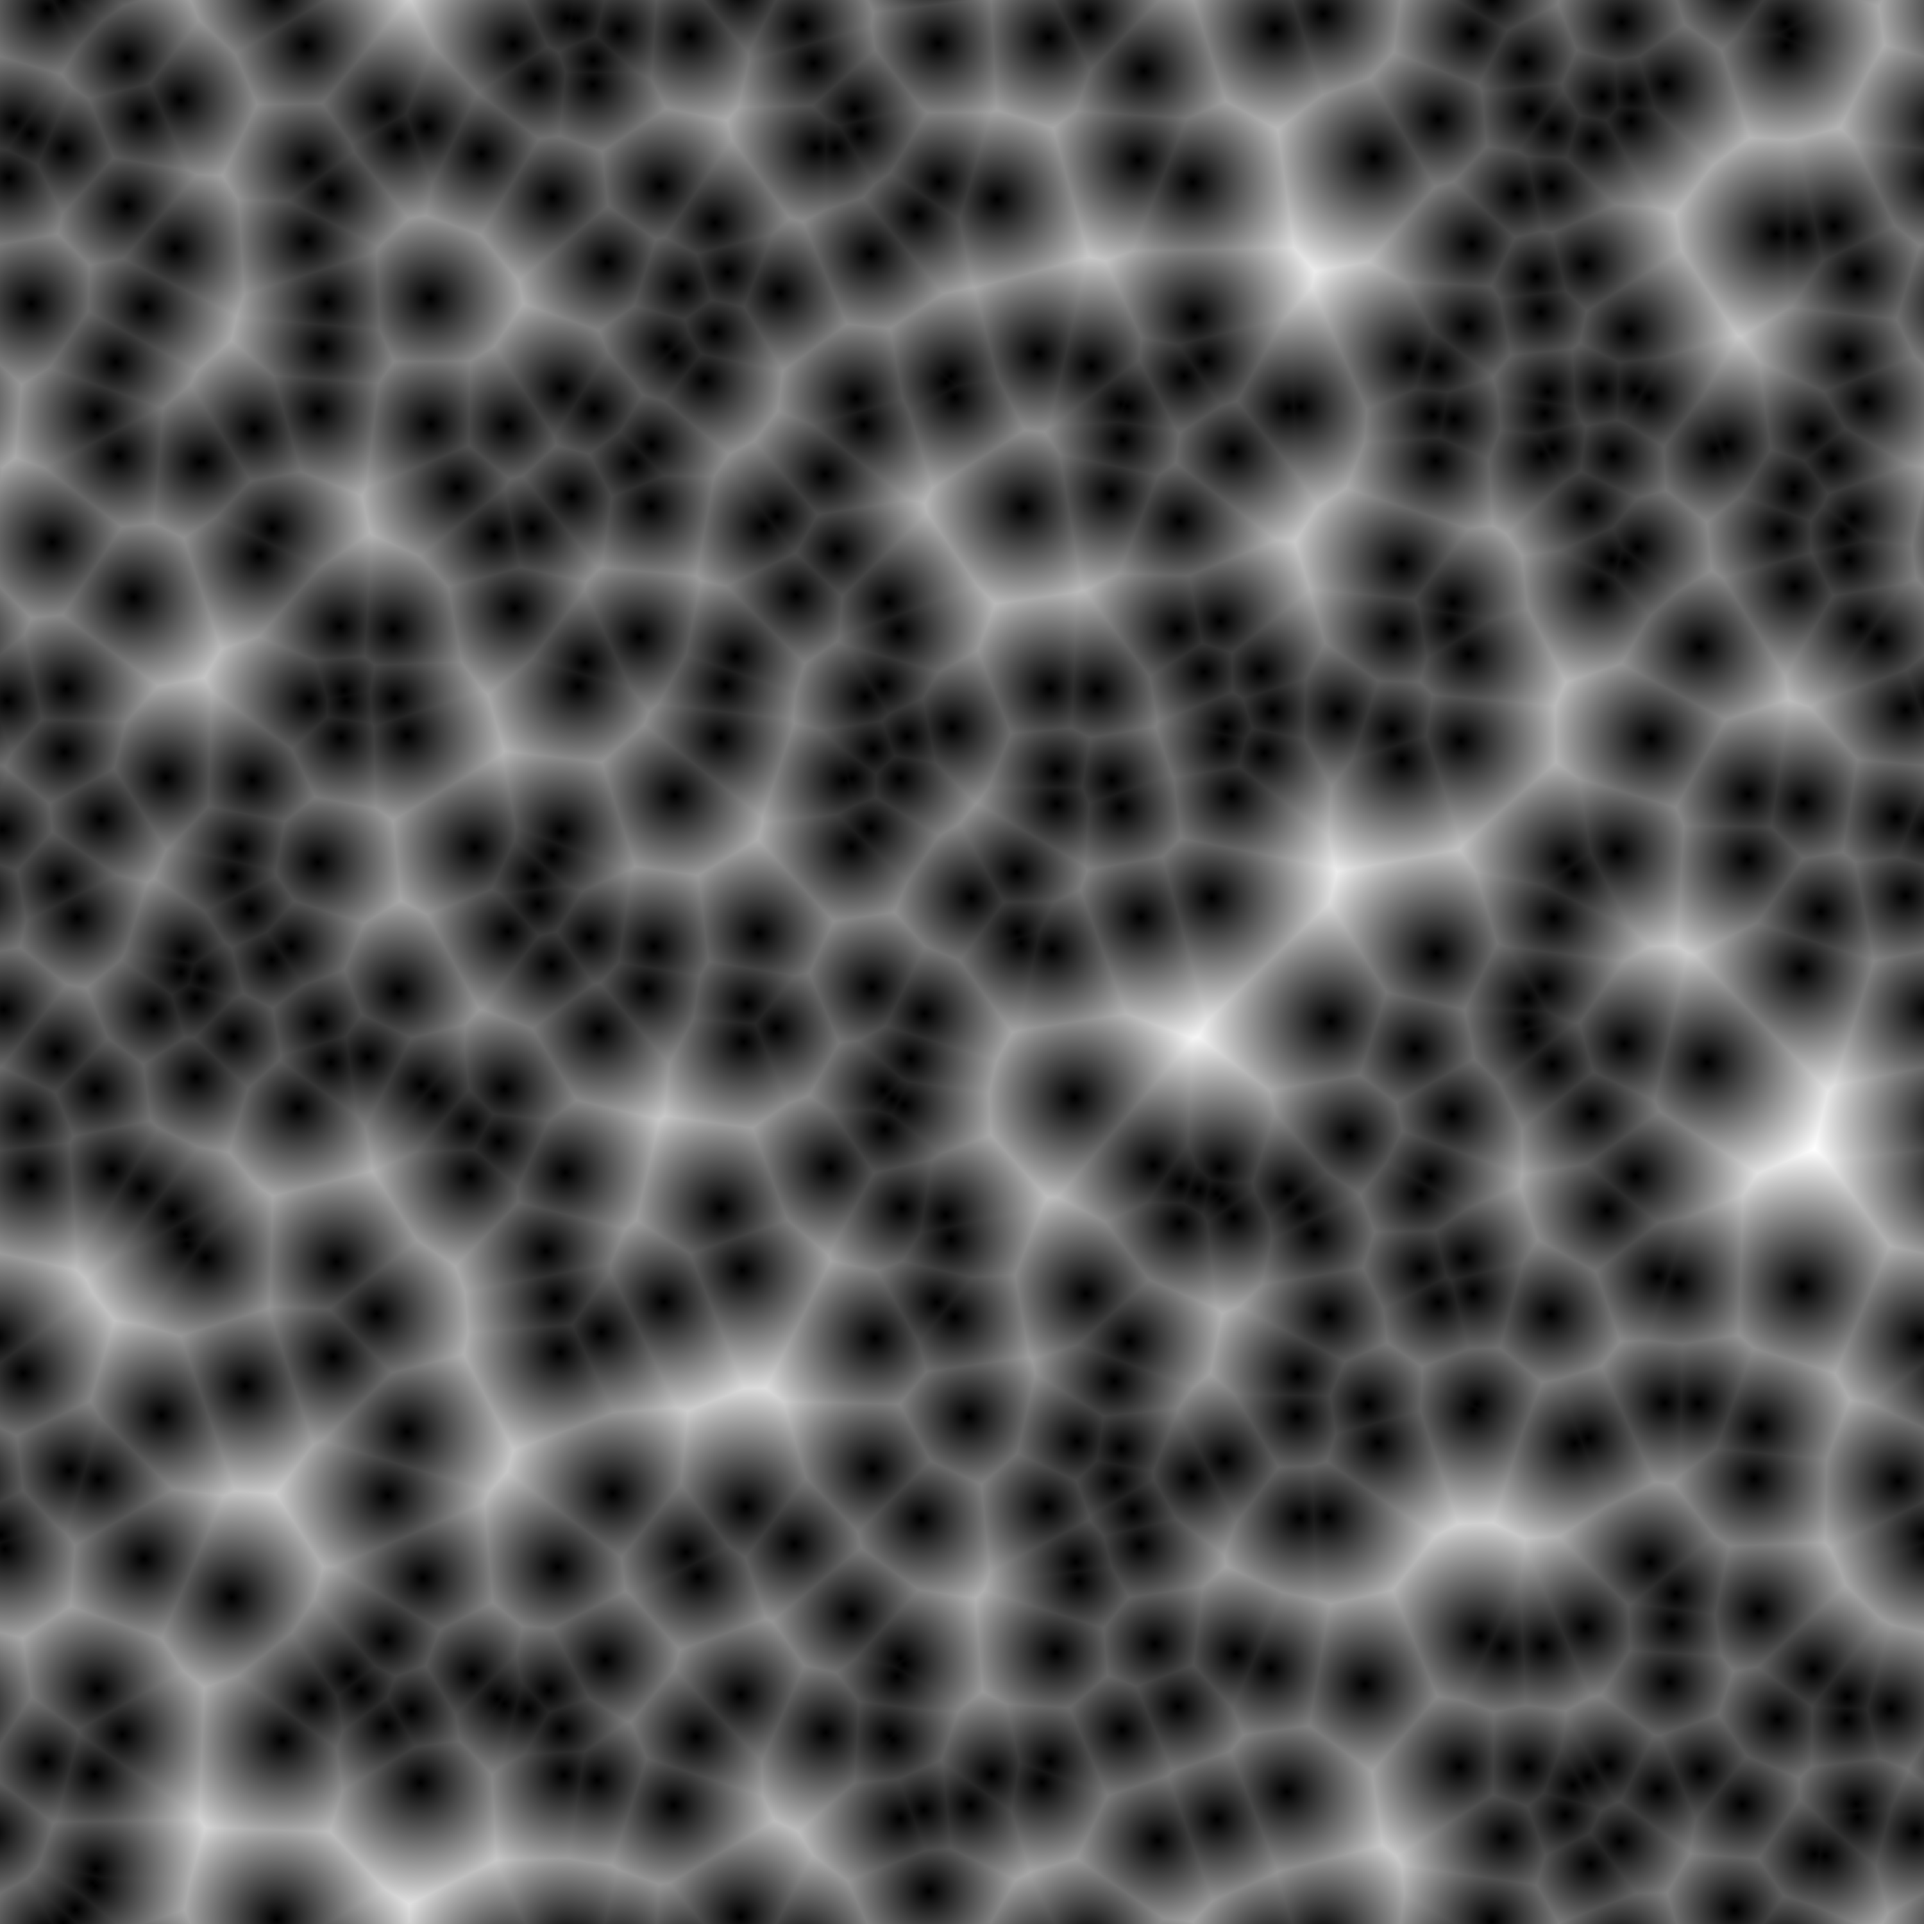
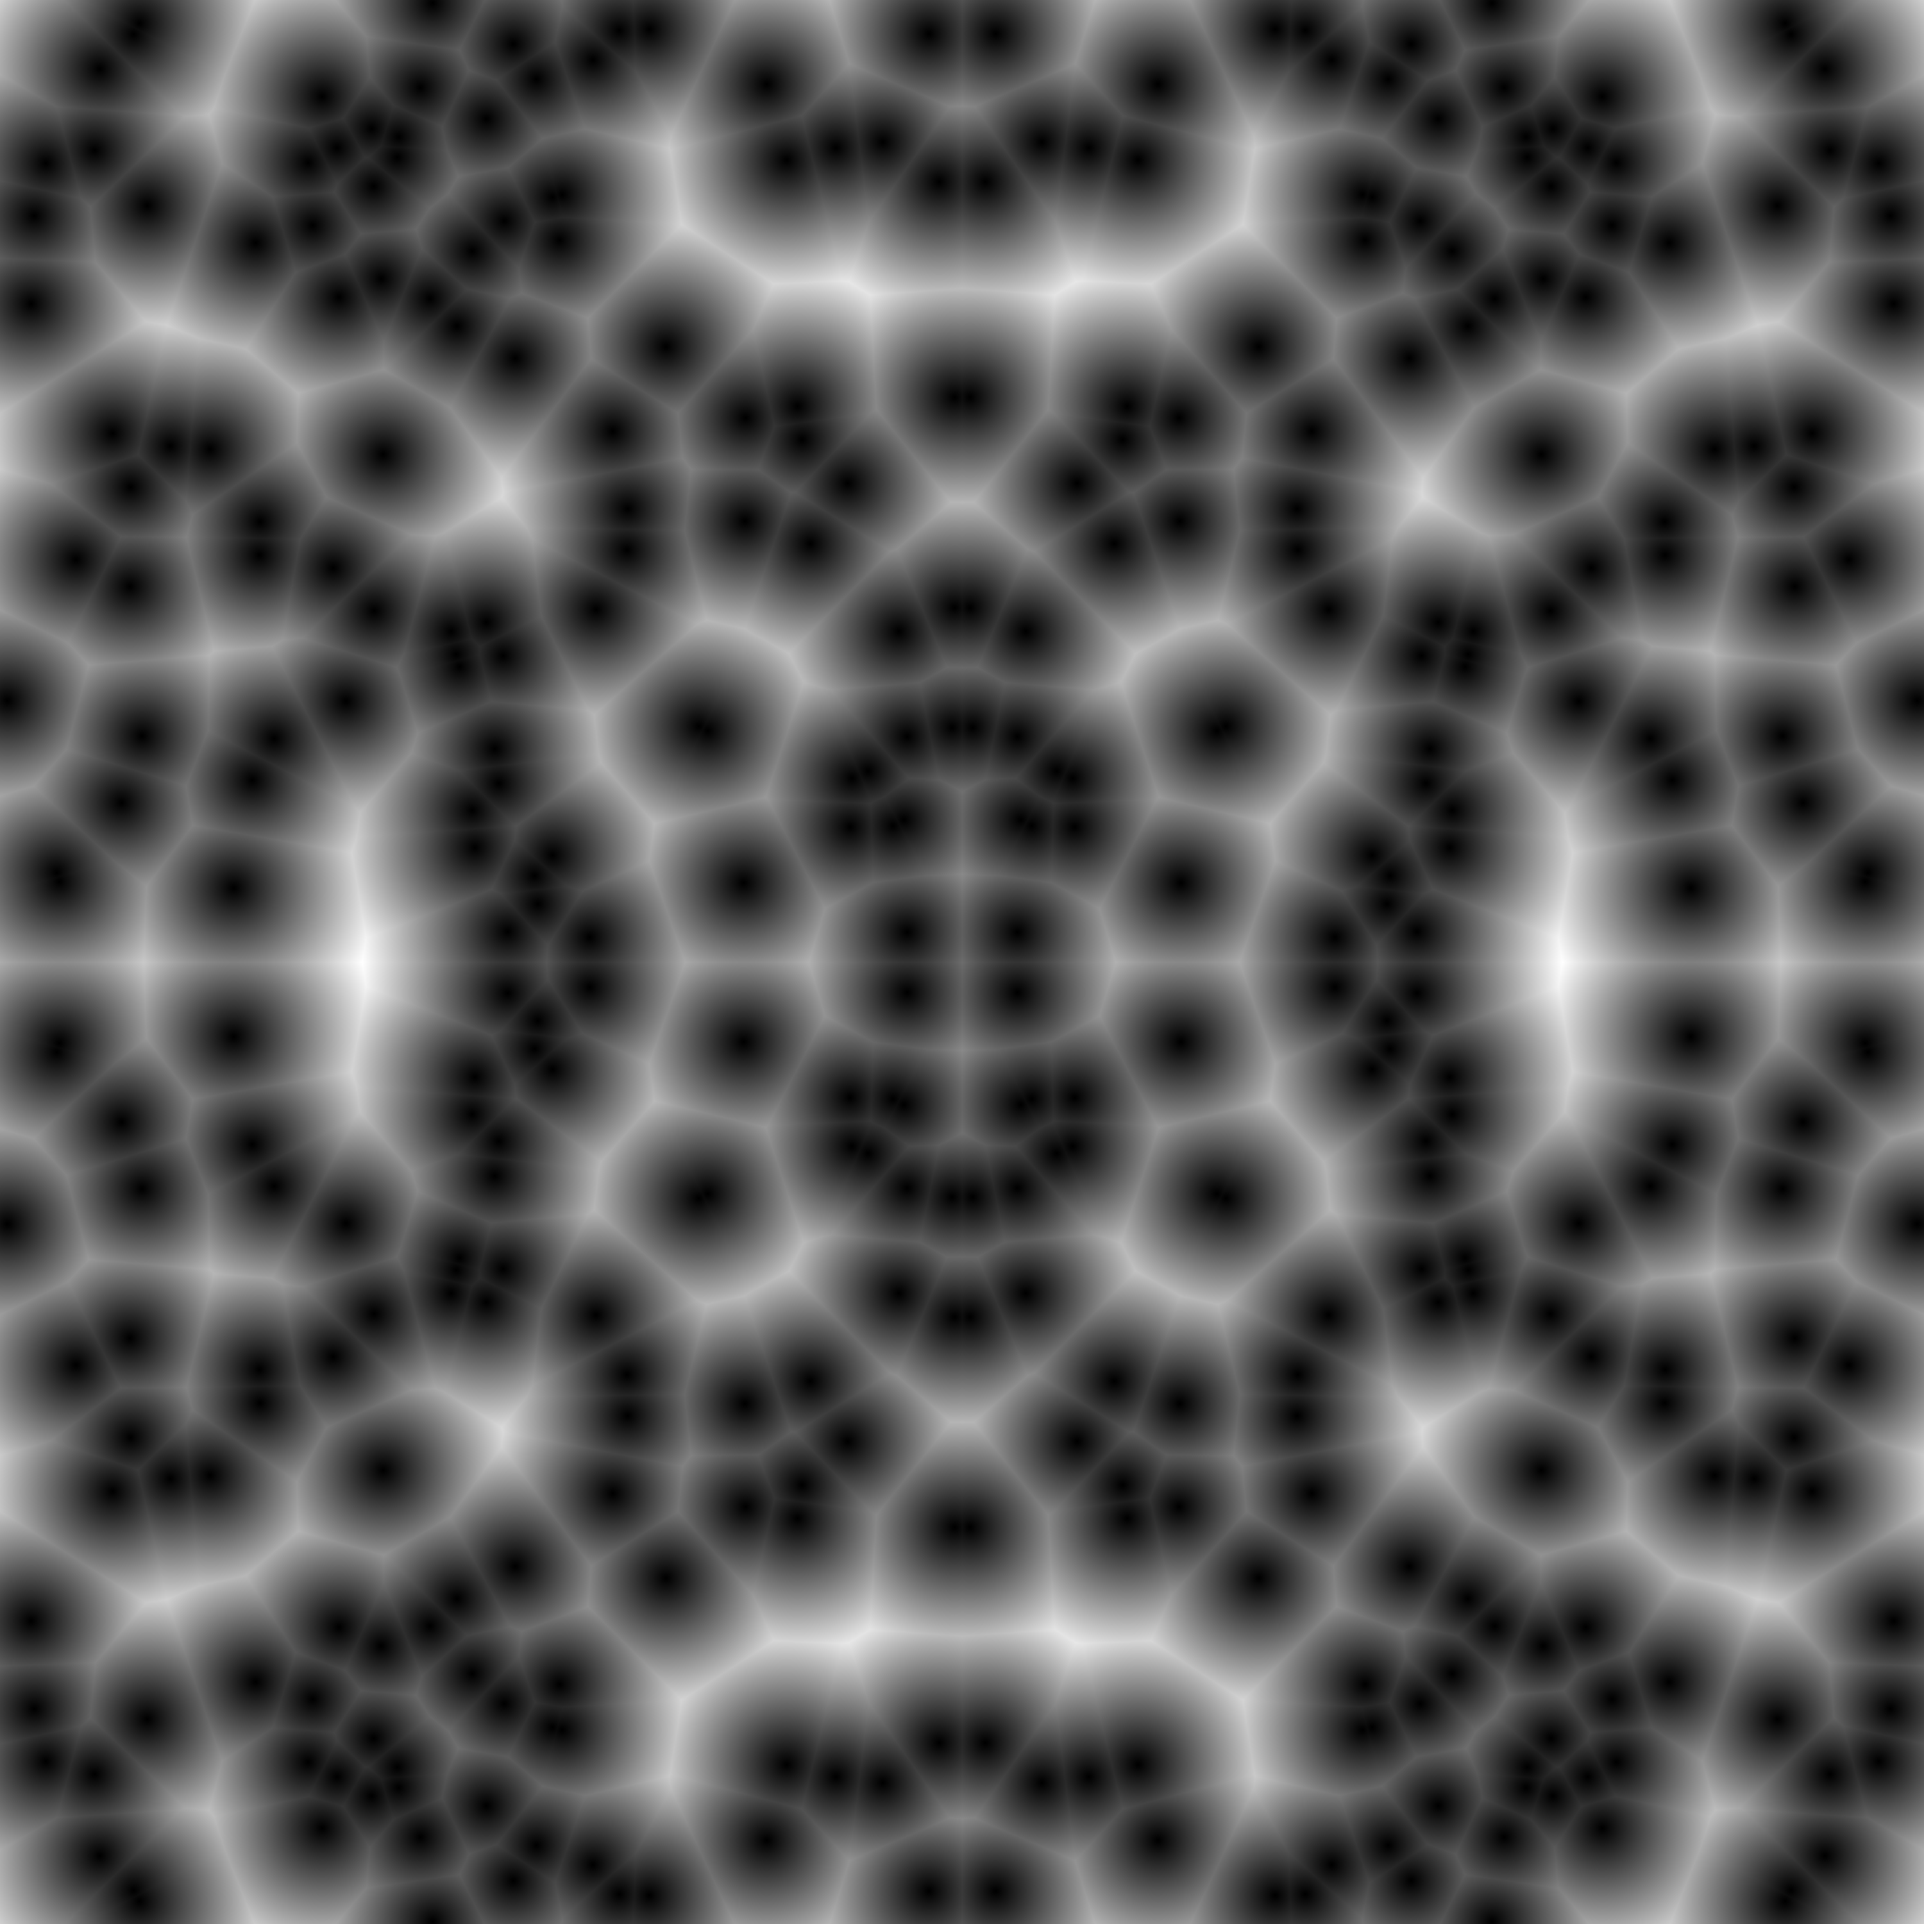
kd tree implementation

diff --git a/src/lib.rs b/src/lib.rs
@@ -1,0 +1,162 @@
+use std::fmt::Debug;
+pub type Point = (usize, usize);
+
+pub fn sqr_distance(p1: Point, p2: Point) -> f64 {
+    let dx = p1.0.abs_diff(p2.0) as f64;
+    let dy = p1.1.abs_diff(p2.1) as f64;
+    dx.powi(2) + dy.powi(2)
+}
+
+#[derive(Debug)]
+struct Node<T> {
+    value: T,
+    children: Vec<Node<T>>,
+}
+
+#[derive(Debug)]
+pub struct KdTree {
+    root: Node<Point>,
+}
+
+impl KdTree {
+    pub fn mindist(self: &Self, p: Point) -> (f64, Point) {
+        let result = Self::ndistance(&self.root, p, 0);
+        (result.0.sqrt(), result.1)
+    }
+
+    fn ndistance(node: &Node<Point>, p: Point, depth: u32) -> (f64, Point) {
+        let pdist = (sqr_distance(node.value, p), node.value);
+        let helper = |p1: &Node<Point>, p2: &Node<Point>| {
+            let p1_dist = KdTree::ndistance(p1, p, depth + 1);
+            let ortho_dist = if depth % 2 == 0 {
+                node.value.0.abs_diff(p.0)
+            } else {
+                node.value.1.abs_diff(p.1)
+            };
+            let sm = smaller(p1_dist, pdist);
+            if (ortho_dist as f64) <= sm.0 {
+                smaller(KdTree::ndistance(p2, p, depth + 1), sm)
+            } else {
+                sm
+            }
+        };
+
+        fn smaller(a: (f64, Point), b: (f64, Point)) -> (f64, Point) {
+            if a.0 < b.0 {
+                a
+            } else {
+                b
+            }
+        }
+
+        match &node.children[..] {
+            [v1] => smaller(Self::ndistance(v1, p, depth + 1), pdist),
+            [] => pdist,
+            [v1, v2] => {
+                if depth % 2 == 0 {
+                    if node.value.0 > p.0 {
+                        helper(v1, v2)
+                    } else {
+                        helper(v2, v1)
+                    }
+                } else {
+                    if node.value.1 > p.1 {
+                        helper(v1, v2)
+                    } else {
+                        helper(v2, v1)
+                    }
+                }
+            }
+            _ => panic!("Found more than two children"),
+        }
+    }
+
+    pub fn new(xs: Vec<(usize, usize)>) -> KdTree {
+        let root = Self::build(xs, 0);
+        KdTree { root }
+    }
+
+    fn build(xs: Vec<Point>, depth: u32) -> Node<Point> {
+        let (left, right, median) = Self::split_at_median(xs, depth);
+        let mut children = Vec::new();
+        if left.len() > 0 {
+            children.push(Self::build(left, depth + 1));
+        }
+        if right.len() > 0 {
+            children.push(Self::build(right, depth + 1));
+        }
+        Node {
+            value: median,
+            children,
+        }
+    }
+
+    fn split_at_median(xs: Vec<Point>, depth: u32) -> (Vec<Point>, Vec<Point>, Point) {
+        let comparator = if depth % 2 == 0 {
+            |x: &Point| x.0
+        } else {
+            |x: &Point| x.1
+        };
+        let mut xs = xs.clone();
+        xs.sort_by_key(comparator);
+        let median_index = (xs.len() - 1) / 2;
+        let mut left: Vec<Point> = Vec::with_capacity(median_index);
+        let mut right: Vec<Point> = Vec::with_capacity(xs.len() - median_index - 1);
+        for i in 0..median_index {
+            left.push(xs[i]);
+        }
+        for i in (median_index + 1)..xs.len() {
+            right.push(xs[i]);
+        }
+        (left, right, xs[median_index])
+    }
+}
+
+#[test]
+fn basic_test() {
+    let _a = Node {
+        value: (32, 32),
+        children: vec![],
+    };
+}
+
+#[test]
+fn test_build() {
+    let a = vec![(5, 4), (2, 6), (13, 3), (3, 1), (10, 2), (8, 7)];
+    let tree = KdTree::new(a);
+    println!("{:?}", tree);
+    println!("{:?}", tree.mindist((9, 4)));
+}
+
+#[test]
+fn test_build2() {
+    let rng = fastrand::Rng::with_seed(100);
+    let mut cells = Vec::new();
+    for _ in 0..1000 {
+        cells.push((rng.usize(0..1000), rng.usize(0..1000)));
+    }
+    let tree = KdTree::new(cells.clone());
+
+    for i in 0..1000 {
+        for j in 0..1000 {
+            let p = (i, j);
+            let tree_dist = tree.mindist(p);
+            let (brute_dist, minpos) = find_nearest(p, &cells);
+            if tree_dist.0 != brute_dist {
+                panic!("failed for {:?}. Correct pos: {:?}", p, minpos);
+            }
+        }
+    }
+    fn find_nearest(p: (usize, usize), cells: &[(usize, usize)]) -> (f64, Point) {
+        let mut mindist = sqr_distance(cells[0], p);
+        let mut min_pos = cells[0];
+        for i in cells {
+            let k = sqr_distance(*i, p);
+            if k < mindist {
+                mindist = k;
+                min_pos = *i;
+            }
+        }
+        (mindist.sqrt(), min_pos)
+    }
+}

diff --git a/src/main.rs b/src/main.rs
@@ -1,3 +1,4 @@
+use cellular_textures::KdTree;
 use png::EncodingError;
 
 use std::{fmt::Display, fs::File, io::BufWriter, str::FromStr};
@@ -8,7 +9,7 @@ fn main() {
     let args = std::env::args().collect::<Vec<String>>();
     if args.len() != 3 {
         eprintln!("Usage: {} PIXELS CELLS", args[0]);
-        eprintln!("Example: {} 3000*3000 10", args[0]);
+        eprintln!("Example: {} 3000x3000 10", args[0]);
         std::process::exit(1);
     }
 
@@ -27,36 +28,32 @@ fn main() {
     write_image("output.png", &mut pixels, bounds).unwrap()
 }
 
-fn wrap_dist(a: &(usize, usize), b: &(usize, usize), bounds: &(usize, usize)) -> f64 {
-    let mut dx = a.0.abs_diff(b.0) as f64;
-    let mut dy = a.1.abs_diff(b.1) as f64;
-    let width = bounds.0 as f64;
-    let height = bounds.0 as f64;
-    if dx > width / 2.0 {
-        dx = width - dx;
-    }
-    if dy > height / 2.0 {
-        dy = height - dy;
-    }
-    (dx.powi(2) + dy.powi(2)).sqrt()
-}
-
-fn find_nearest((r, c): (usize, usize), cells: &[(usize, usize)], bounds: &(usize, usize)) -> f64 {
-    let mut mindist = wrap_dist(&cells[0], &(r, c), bounds);
-    for i in cells {
-        let k = wrap_dist(&i, &(r, c), bounds);
-        if k < mindist {
-            mindist = k;
-        }
-    }
-    mindist
+fn find_nearest(p: (usize, usize), tree: &KdTree, bounds: &(usize, usize)) -> f64 {
+    let mirrors = [
+        (p.0, p.1),
+        (p.0, bounds.1 - p.1),
+        (p.0, bounds.1 + p.1),
+        (p.0 + bounds.0, p.1),
+        (p.0 + bounds.0, bounds.1 - p.1),
+        (p.0 + bounds.0, bounds.1 + p.1),
+        (bounds.0 - p.0, p.1),
+        (bounds.0 - p.0, bounds.1 - p.1),
+        (bounds.0 - p.0, bounds.1 + p.1),
+    ];
+    mirrors
+        .iter()
+        .map(|p| tree.mindist(*p))
+        .min_by(|a, b| a.partial_cmp(b).unwrap())
+        .unwrap()
+        .0
 }
 
 fn render(bounds: &(usize, usize), pixels: &mut [u8], cells: &[(usize, usize)]) {
     let mut distance: Vec<f64> = vec![0.0; (bounds.0 * bounds.1) as usize];
+    let tree = KdTree::new(cells.to_vec());
     for i in 0..bounds.0 {
         for j in 0..bounds.1 {
-            distance[(i * bounds.1) + j] = find_nearest((i, j), cells, &bounds);
+            distance[(i * bounds.1) + j] = find_nearest((i, j), &tree, bounds);
         }
     }
     let maxdist = distance.iter().max_by(|a, b| a.total_cmp(b)).unwrap();

diff --git a/README.md b/README.md
@@ -5,7 +5,8 @@ Based on https://blackpawn.com/texts/cellular/default.html
 ## 25 cells
 <img src="output.png" width="400" height="400" />
 
-## 500 cells
+## 100 cells
 <img src="output1.png" width="400" height="400" />
 
-
+## 1000 cells
+<img src="output2.png" width="400" height="400" />
